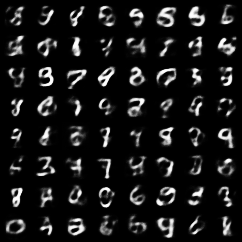
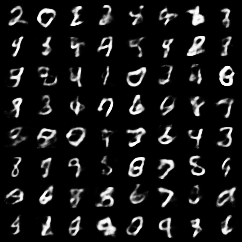
Publish pre-trained weights and report full training runs
Train every model for 10 to 30 epochs, publish the weights on the
v0.1.0 release with checksums in spinup_dl/pretrained.json, and replace
the short-run results on the model pages with these runs, a load
instruction for each, and a Pre-trained Models table.

diff --git a/docs/models/rnn.md b/docs/models/rnn.md
@@ -95,24 +95,30 @@ The model class is `spinup_dl.models.rnn.CharRNN(vocab_size, embed_dim, hidden_s
 ### What to Expect
 
 ```bash
-python -m spinup_dl.run rnn --cell lstm --epochs 3
+python -m spinup_dl.run rnn --cell lstm --epochs 20
 ```
 
-After 3 epochs of 200 steps, which took 22 seconds, the LSTM reached a test perplexity of 5.09. Here is the start of its last sample:
+This run took 2 minutes and 23 seconds. The LSTM's test perplexity was lowest, 4.58, after 9 epochs, and rose to 4.93 by epoch 20 while its training loss kept falling: the model began to memorize the training text. This is the overfitting of [Part 2](../intro/improving_networks.md#bias-and-variance), and `--dropout 0.2` with `--num_layers 2` is the first thing to try against it. Here is the start of its sample after 20 epochs:
 
 ```text
-And asly be embrace threes not true tarms,
-Fit against by accegture wounds,
-The wive you be; I would what make your deeds
-Which he shall be verous: why refest,
-You can a heaven's pardons, bleeding into their.
+Tybalt, that myscureless fully of our year:
+How far she hath your words I'll render his own day.
 
-PARICANA:
-Your friends, and these lungmate.
-
+DUCHESS OF YORK:
+I use their old is lesser than my son.
+She hath now blowers to behold that warp,
+And he was not foul departure of them,
+And I am sour inch and flatterers may
+You tell her, and he
 ```
 
-The words are not yet right, but after only 22 seconds of training the model has already learned the shape of a play: speakers' names in capitals, line breaks, and punctuation. Train longer to see the spelling improve.
+The trained model from this run is published, so you can use it without training:
+
+```python
+from spinup_dl import load_pretrained
+
+model = load_pretrained("lstm_shakespeare")
+```
 
 ### Things to Try
 

diff --git a/docs/user/saving_and_loading.md b/docs/user/saving_and_loading.md
@@ -114,3 +114,28 @@ save_image(model.sample(64), "vae_samples.png", nrow=8)
 ```
 
 Diffusion models have the same `sample` method. They take longer, because sampling runs the denoising network once for each of the `timesteps` steps, 1000 by default.
+
+## Pre-trained Models
+
+Trained weights for every model are published with the code, so you can load a model without training it:
+
+```python
+from spinup_dl import list_pretrained, load_pretrained
+
+print(list_pretrained())
+model = load_pretrained("transformer_shakespeare")
+```
+
+The first call downloads the weights, a few megabytes, into `data/pretrained/`, and checks the file's checksum; later calls load the saved copy. The model comes back exactly as `load_model` returns it, so everything in [Loading and Running Trained Models](#loading-and-running-trained-models) applies. To list the models and their results from the command line, run `python -m spinup_dl.pretrained`.
+
+| Name | Model | Result |
+| --- | --- | --- |
+| `mlp_mnist` | [MLP](../models/mlp.md) on MNIST | 97.8% test accuracy |
+| `lenet_mnist` | [LeNet](../models/cnn.md) on MNIST | 99.0% test accuracy |
+| `resnet_cifar10` | [ResNet](../models/cnn.md) on CIFAR-10 | 88.4% test accuracy |
+| `lstm_shakespeare` | [LSTM](../models/rnn.md) on Tiny Shakespeare | Test perplexity 4.93 |
+| `transformer_shakespeare` | [Transformer](../models/transformer.md) on Tiny Shakespeare | Test perplexity 4.59 |
+| `vae_mnist` | [VAE](../models/vae.md) on MNIST | Test loss 103.0 |
+| `diffusion_mnist` | [Diffusion model](../models/diffusion.md) on MNIST | Test loss 0.027 |
+
+Each model's page gives the command that trained it, so you can reproduce the weights yourself.

diff --git a/docs/models/diffusion.md b/docs/models/diffusion.md
@@ -93,16 +93,24 @@ The model class is `spinup_dl.models.diffusion.Diffusion(image_shape, base_chann
 python -m spinup_dl.run diffusion --epochs 10
 ```
 
-After 10 epochs, which took 5 minutes on an Apple M4 laptop, the test loss was 0.027. These are 64 images it generated:
+This run took 5 minutes, and the test loss was 0.027. These are 64 images it generated:
 
 ```{figure} ../_static/img/models/diffusion_samples.png
-:alt: An 8 by 8 grid of handwritten digits generated by the diffusion model after 10 epochs of training on MNIST. Many are clear digits, such as 2, 3, 5, 6, 7, and 8; some are still malformed strokes.
+:alt: An 8 by 8 grid of handwritten digits generated by the diffusion model after 10 epochs of training on MNIST. Many are clear digits, such as 2, 3, 5, 6, 7, and 8.
 :width: 50%
 
 Samples from the diffusion model after 10 epochs on MNIST.
 ```
 
-Many of the samples are clear digits, while others are still malformed. Training helps visibly: after 2 epochs, with a test loss of 0.039, the samples were mostly strokes rather than digits, and they keep improving beyond 10 epochs.
+The samples improve steadily with training: after 2 epochs, with a test loss of 0.039, they were mostly strokes, and by 10 epochs most are digits. Generating 64 images runs the network 1000 times, so it takes noticeably longer than sampling from the [VAE](vae.md).
+
+The trained model from this run is published, so you can use it without training:
+
+```python
+from spinup_dl import load_pretrained
+
+model = load_pretrained("diffusion_mnist")
+```
 
 ### Things to Try
 

diff --git a/docs/models/transformer.md b/docs/models/transformer.md
@@ -78,21 +78,29 @@ The model class is `spinup_dl.models.transformer.Transformer(vocab_size, context
 ### What to Expect
 
 ```bash
-python -m spinup_dl.run transformer --epochs 3
+python -m spinup_dl.run transformer --epochs 20
 ```
 
-After 3 epochs of 200 steps, which took 40 seconds, the Transformer reached a test perplexity of 6.90, against 5.09 for the LSTM with the same number of steps. With this little training, the LSTM is ahead; train both for longer and compare again. Here is the start of the Transformer's last sample:
+This run took 4 minutes and reached a test perplexity of 4.59, better than the 4.93 of the [LSTM](rnn.md) trained for the same number of steps, and with dropout it did not overfit. Here is the start of its sample after 20 epochs:
 
 ```text
-For batt uple like mer:
-That upintose ind shere yought did bere be ge,
-Shall no shick?
-Thy have candess. Me, thou me of the in misin.
+brought o' the time of it in death: I have must not he must.
 
-QUEEN YTIDWBUS:
-Hen shall ou.
+HORTENSIO:
+Men,
+Madam, met it is it not ruship or tears the like hearts
+Of shroudds, is right Lord,
+Would then leanms to Happy bitter her hath none
+Than you to be come the proud hook.
 
-ANDUSH:
+```
+
+The trained model from this run is published, so you can use it without training:
+
+```python
+from spinup_dl import load_pretrained
+
+model = load_pretrained("transformer_shakespeare")
 ```
 
 ### Things to Try

diff --git a/docs/models/cnn.md b/docs/models/cnn.md
@@ -79,11 +79,21 @@ The model classes are `spinup_dl.models.cnn.LeNet(in_channels, image_size, num_c
 ### What to Expect
 
 ```bash
-python -m spinup_dl.run cnn --arch lenet --epochs 3
-python -m spinup_dl.run cnn --arch resnet --dataset cifar10 --augment True --epochs 1
+python -m spinup_dl.run cnn --arch lenet --epochs 20
+python -m spinup_dl.run cnn --arch resnet --dataset cifar10 --augment True --lr_schedule cosine --epochs 30
 ```
 
-LeNet reached 98.2% test accuracy on MNIST after 3 epochs, in 8 seconds. The ResNet reached 55.8% on CIFAR-10 after a single epoch, in 30 seconds, and keeps improving with more epochs; CIFAR-10 is a much harder dataset than MNIST, so it needs far longer training.
+LeNet reached 99.0% test accuracy on MNIST in under a minute, ahead of the [MLP](mlp.md)'s 97.8% with a quarter of the parameters. The ResNet reached 88.4% on CIFAR-10 after 18 of its 30 epochs, in 8 minutes; the published weights are from that point.
+
+The trained model from this run is published, so you can use it without training:
+
+```python
+from spinup_dl import load_pretrained
+
+model = load_pretrained("lenet_mnist")
+```
+
+For the ResNet, use `load_pretrained("resnet_cifar10")`.
 
 ### Things to Try
 

diff --git a/docs/models/vae.md b/docs/models/vae.md
@@ -70,16 +70,24 @@ The model class is `spinup_dl.models.vae.VAE(image_shape, hidden_size, latent_di
 ### What to Expect
 
 ```bash
-python -m spinup_dl.run vae --epochs 3
+python -m spinup_dl.run vae --epochs 30
 ```
 
-After 3 epochs, which took 7 seconds, the test loss was 111.8 per image, of which 24.0 was the KL term. These are 64 images it generated:
+This run took a minute. The test loss was 103.0 per image: 77.2 for the reconstruction and 25.8 for the KL term. These are 64 images it generated:
 
 ```{figure} ../_static/img/models/vae_samples.png
-:alt: An 8 by 8 grid of handwritten digits generated by the VAE after 3 epochs of training on MNIST. Most are recognizable digits, somewhat blurry.
+:alt: An 8 by 8 grid of handwritten digits generated by the VAE after 30 epochs of training on MNIST. Most are clearly recognizable digits, slightly blurry.
 :width: 50%
 
-Samples from the VAE after 3 epochs on MNIST.
+Samples from the VAE after 30 epochs on MNIST.
+```
+
+The trained model from this run is published, so you can use it without training:
+
+```python
+from spinup_dl import load_pretrained
+
+model = load_pretrained("vae_mnist")
 ```
 
 ### Things to Try

diff --git a/docs/user/models.md b/docs/user/models.md
@@ -19,7 +19,7 @@ The companion code for this site is a small Python package, `spinup_dl`, with st
 
 The trainers are imported from the package, as in `from spinup_dl import cnn`. The ConvNet trainer builds either a LeNet or a ResNet, and the RNN trainer a plain RNN, a GRU, or an LSTM. The two text models are character-level language models trained on Tiny Shakespeare, about a million characters of Shakespeare's plays.
 
-Every model trains on a laptop CPU in minutes, uses a GPU automatically when there is one, and can also run on Fashion-MNIST, CIFAR-10, or any text file of your own.
+Every model trains on a laptop in minutes, uses a GPU automatically when there is one, and can also run on Fashion-MNIST, CIFAR-10, or any text file of your own. Trained weights for every model are also published, so you can try them without training; see [Pre-trained Models](saving_and_loading.md#pre-trained-models).
 
 ## Why These Models?
 

diff --git a/docs/models/mlp.md b/docs/models/mlp.md
@@ -86,10 +86,18 @@ The model class is `spinup_dl.models.mlp.MLP(in_dim, hidden_sizes, out_dim, acti
 ### What to Expect
 
 ```bash
-python -m spinup_dl.run mlp --epochs 3
+python -m spinup_dl.run mlp --epochs 20
 ```
 
-With the default settings, this run reached 97.4% test accuracy on MNIST after 3 epochs, in 7 seconds on an Apple M4 laptop on a laptop.
+This run took 39 seconds and reached 97.8% test accuracy on MNIST. Its training accuracy reached 99.7%: the gap between the two is the overfitting that [regularization](../intro/improving_networks.md#regularization) addresses.
+
+The trained model from this run is published, so you can use it without training:
+
+```python
+from spinup_dl import load_pretrained
+
+model = load_pretrained("mlp_mnist")
+```
 
 ### Things to Try
 

diff --git a/docs/user/installation.md b/docs/user/installation.md
@@ -57,13 +57,13 @@ You should see a table for each of the two epochs, ending with a line like
 Logging data to .../spinningup-dl/data/mlp/mlp_s0/progress.txt
 ```
 
-near the top of the output. If that works, try a real dataset. This downloads MNIST, about 12 MB, and trains for three epochs, which took under 10 seconds on an Apple M4 laptop, on its CPU or its GPU:
+near the top of the output. If that works, try a real dataset. This downloads MNIST, about 12 MB, and trains for three epochs, which takes seconds on a recent laptop:
 
 ```bash
 python -m spinup_dl.run mlp --epochs 3
 ```
 
-The test accuracy should be around 97%; in our run it was 97.4%.
+The test accuracy should be around 97%.
 
 ## Running the Tests
 

diff --git a/README.md b/README.md
@@ -33,6 +33,8 @@ python -m spinup_dl.run mlp --epochs 3
 python -m spinup_dl.utils.plot data/mlp --value TestAccuracy
 ```
 
+Trained weights for every model are published on the [v0.1.0 release](https://github.com/Moe-Zbeeb/spinningup-dl/releases/tag/v0.1.0) and load with `spinup_dl.load_pretrained("lenet_mnist")`.
+
 The site's Installation, Models, Running Experiments, Experiment Outputs, and Plotting pages document it. `pytest` runs the tests, which `.github/workflows/tests.yml` also runs on every change to the code.
 
 ## Add content
